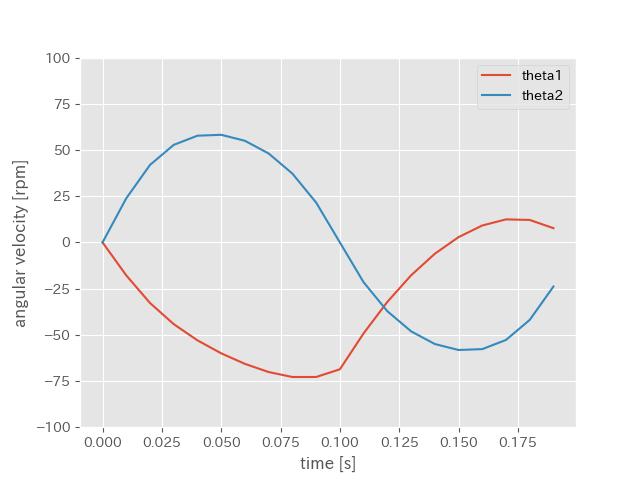
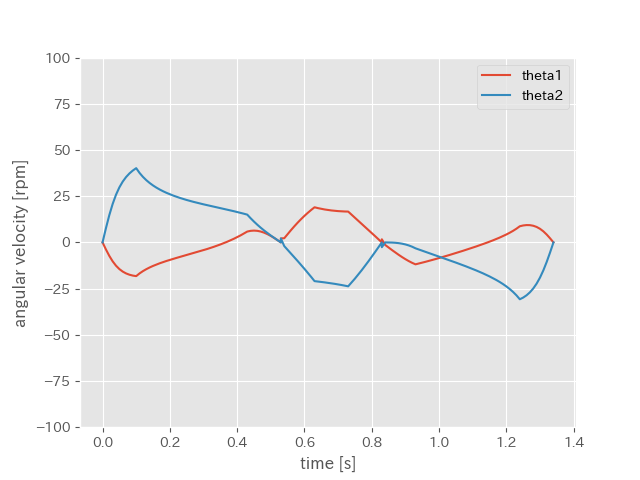
Implement waypoint route planning

diff --git a/manipurator.py b/manipurator.py
@@ -44,23 +44,20 @@ class PathPlanner():
     def angle(self, x1, y1, x2, y2):
         return math.atan2(y2 - y1, x2 - x1)
 
-    def planning(self, x1, y1, x2, y2):
+    def straight(self, x1, y1, x2, y2, t0=0):
         angle = self.angle(x1, y1, x2, y2)
-        print(math.degrees(angle))
-        print(self.vmax ** 2 / self.acc / 2)
 
-        t, v = 0, 0
+        t, v = t0, 0
         x, y = x1, y1
         diff = self.distance(x1, y1, x2, y2)
         diff0 = diff
         distance = 0
 
-        tList, xList, yList, vList = [0], [x1], [y1], [0]
+        tList, xList, yList, vList = [t0], [x1], [y1], [0]
         while diff > 0.1:
             t += self.dt
             if t > 2:
                 break
-            print(diff0 - distance)
 
             if diff0 - distance < self.vmax ** 2 / self.acc / 2:
                 v -= self.acc * self.dt
@@ -80,18 +77,37 @@ class PathPlanner():
             yList.append(y)
             vList.append(v)
 
-            print(t, x, y, diff, v)
-
         return {'t': tList, 'x': xList, 'y': yList, 'v': vList}
+    
+    def planning(self, waypoints):
+        path = {'t': [], 'x': [], 'y': [], 'v': []}
+        t0 = 0
+        print(waypoints)
+        print(waypoints.shape)
+        for i in range(len(waypoints) - 1):
+            pathPart = self.straight(waypoints[i][0], waypoints[i][1], waypoints[i+1][0], waypoints[i+1][1], t0=t0)
+            path['t'].extend(pathPart['t'])
+            path['x'].extend(pathPart['x'])
+            path['y'].extend(pathPart['y'])
+            path['v'].extend(pathPart['v'])
+            t0 = path['t'][-1]
+        print(path)
+        return path
 
 
 if __name__ == '__main__':
     l1 = 140
     l2 = 160
-    vmax = 3.0e3
+    vmax = 0.5e3
     acc = vmax / 0.1
+    waypoints = np.array([
+        [-150, 250],
+        [-100, 40],
+        [-200, 50],
+        [-150, 250],
+    ])
     manipurator = Manipurator(l1, l2)
-    path = PathPlanner(acc, vmax).planning(-150, 250, 150, 250)
+    path = PathPlanner(acc, vmax).planning(waypoints)
     # path = PathPlanner(acc, vmax).planning(100, 50, 300, 150)
 
     theta1List, theta2List = [], []
@@ -99,7 +115,6 @@ if __name__ == '__main__':
         theta1, theta2 = manipurator.inverseKinematics(
             path['x'][i], path['y'][i])
         x, y = manipurator.forwardKinematics(theta1, theta2)
-        print(x, y)
         theta1List.append(math.degrees(theta1))
         theta2List.append(math.degrees(theta2))
 
